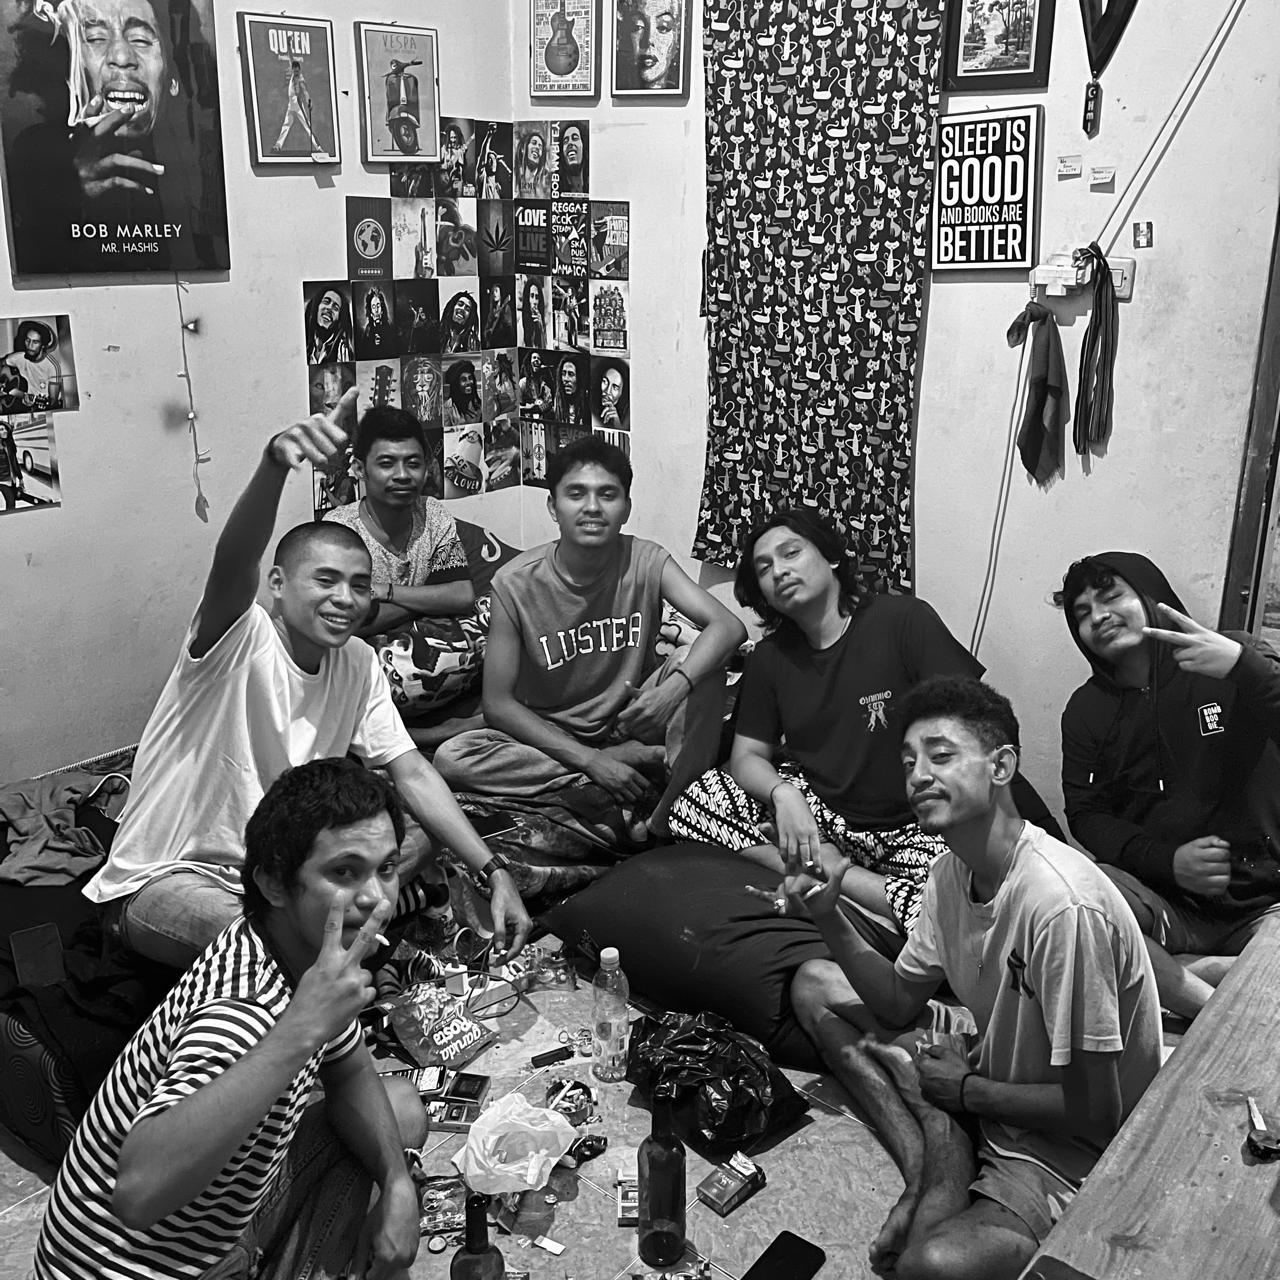
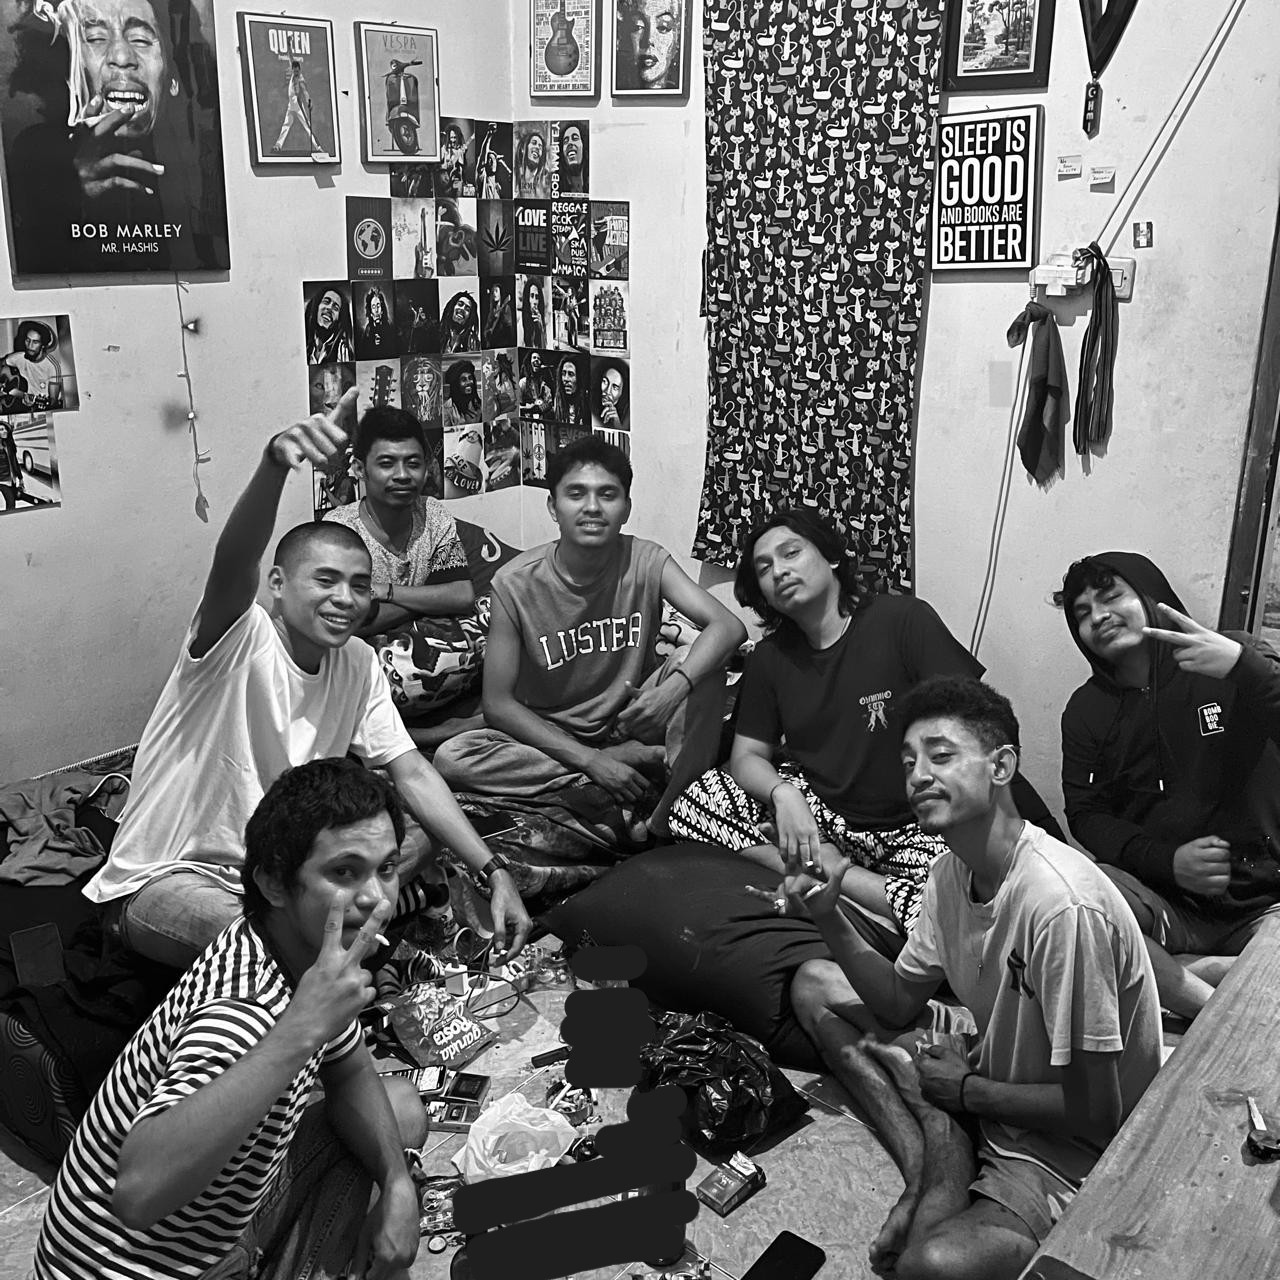
update

Changed region(s): [[0.3438, 0.7188, 0.5625, 1.0]]

diff --git a/index.html b/index.html
@@ -81,7 +81,7 @@
           <div class="portrait-stage">
             <div class="portrait-halo"></div>
             <div class="portrait-frame media-shell" data-fallback="JHALOPAX">
-              <img src="assets/style/image/Jhalopax.jpeg.jpeg" alt="Foto profil Afrizal Tuasikal">
+              <img src="assets/style/image/Jhalopax-allo.jpeg" alt="Foto profil Afrizal Tuasikal">
             </div>
             <span class="portrait-label label-top">WEB / MOBILE</span>
             <span class="portrait-label label-bottom">UI / GRAPHIC</span>
@@ -142,7 +142,7 @@
           </div>
         </div>
 
-        <blockquote class="statement reveal reveal-slice">
+        <blockquote class="statement">
           “Aku tak butuh banyak, hanya ruang untuk bernapas tenang, dan kebebasan untuk menjalani hidup dengan caraku.”
         </blockquote>
       </div>
@@ -162,7 +162,7 @@
               Saya menikmati proses mengubah masalah menjadi alur yang lebih sederhana: mulai dari merancang tampilan, membangun backend dan database, menghubungkan API, hingga melakukan deployment pada server. Proses panjang tersebut mengajarkan saya untuk teliti, adaptif, dan terus memperbaiki hasil.
             </p>
             <p class="dialect-note">
-              “Dari Ambon sampai Yogyakarta, setiap proses bukan cuma cobaan, tetapi kesempatan par katong bertumbuh dan jadi lebih baik.”
+              “Dari Ambon sampai Yogyakarta, setiap proses bukang cuma cobaan, tetapi kesempatan par katong bertumbuh deng jadi lebe bae.”
               <span>— Jhalopax</span>
             </p>
           </div>
@@ -273,8 +273,6 @@
                 </ul>
               </div>
 
-              <p class="upload-note"><i class="fa-solid fa-circle-info"></i> Unggah gambar ke folder <code>assets/style/image/</code> dengan nama <strong>SIKAPAL1.png</strong> sampai <strong>SIKAPAL10.png</strong>. Bingkai mobile akan diterapkan otomatis.</p>
-
               <div class="phone-gallery phone-gallery-sikapal" aria-label="Dokumentasi SI-KAPAL">
                 <figure class="phone-shot reveal-inner"><div class="phone-frame media-shell" data-fallback="SIKAPAL 01"><img loading="lazy" src="assets/style/image/SIKAPAL1.png" alt="Tampilan SI-KAPAL 1"></div></figure>
                 <figure class="phone-shot reveal-inner"><div class="phone-frame media-shell" data-fallback="SIKAPAL 02"><img loading="lazy" src="assets/style/image/SIKAPAL2.png" alt="Tampilan SI-KAPAL 2"></div></figure>
@@ -298,17 +296,17 @@
         <div class="section-heading section-heading-light reveal reveal-right">
           <p class="section-kicker">04 / PERSONAL ARCHIVE</p>
           <h2 class="section-title">Moment in Jogja</h2>
-          <p class="section-lead">Potongan perjalanan, tempat, dan orang-orang yang ikut memberi warna selama hidup dan belajar di Yogyakarta.</p>
+          <p class="section-lead">Potongan perjalanan, tempat, dan orang-orang yang saling berbagi pengalaman selama hidup dan belajar di Yogyakarta.</p>
         </div>
 
         <div class="gallery-grid">
           <figure class="gallery-card gallery-wide reveal reveal-left" data-delay="40">
             <div class="media-shell" data-fallback="WATUNENE"><img loading="lazy" src="assets/style/image/web-gambar1.jpeg" alt="Pantai Watunene"></div>
-            <figcaption><strong>Watunene</strong><span>Tenang, sederhana, dan dekat dengan rumah.</span></figcaption>
+            <figcaption><strong>Watunene</strong><span>Tenang, sederhana.</span></figcaption>
           </figure>
           <figure class="gallery-card reveal reveal-up" data-delay="100">
             <div class="media-shell" data-fallback="LERENG"><img loading="lazy" src="assets/style/image/web-gambar2.jpeg" alt="Lereng di Yogyakarta"></div>
-            <figcaption><strong>Lereng Jogja</strong><span>Damai di antara hijau dan ketidakpastian perjalanan.</span></figcaption>
+            <figcaption><strong>Lereng Jogja</strong><span>Damai antara hijau dan ketidakpastian perjalanan.</span></figcaption>
           </figure>
           <figure class="gallery-card reveal reveal-right" data-delay="160">
             <div class="media-shell" data-fallback="TUGU"><img loading="lazy" src="assets/style/image/web-gambar3.jpeg" alt="Tugu Yogyakarta"></div>
@@ -320,15 +318,15 @@
           </figure>
           <figure class="gallery-card reveal reveal-pop" data-delay="280">
             <div class="media-shell" data-fallback="DUO"><img loading="lazy" src="assets/style/image/Jhalopax deng Rey.jpeg" alt="Momen bersama Rey"></div>
-            <figcaption><strong>Duo</strong><span>Teman perjalanan, cerita yang tidak selalu perlu direncanakan.</span></figcaption>
+            <figcaption><strong>Duo</strong><span>Tamang bajalang, carita yang seng perlu rencana.</span></figcaption>
           </figure>
           <figure class="gallery-card gallery-wide reveal reveal-up" data-delay="340">
             <div class="media-shell" data-fallback="TRIO"><img loading="lazy" src="assets/style/image/WhatsApp Image 2024-10-18 at 17.36.45.jpeg" alt="Momen trio di Yogyakarta"></div>
-            <figcaption><strong>Trio</strong><span>Jauh dari Ambon, tetapi seng pernah benar-benar sendiri.</span></figcaption>
+            <figcaption><strong>Trio</strong><span>Jauh dari Ambon, tetap harus baku lia.</span></figcaption>
           </figure>
           <figure class="gallery-card reveal reveal-right" data-delay="400">
             <div class="media-shell" data-fallback="SQUAD"><img loading="lazy" src="assets/style/image/21sq.jpg" alt="Momen bersama squad"></div>
-            <figcaption><strong>Squad</strong><span>Baku kele, baku bantu, dan tumbuh bersama.</span></figcaption>
+            <figcaption><strong>Squad</strong><span>Baku kele, baku bantu, deng tumbuh sama-sama.</span></figcaption>
           </figure>
           <figure class="gallery-card gallery-card-ramerame">
             <div class="media-shell" data-fallback="RAMERAME">
@@ -340,7 +338,7 @@
                 alt="Momen ramai-ramai"
               >
             </div>
-            <figcaption><strong>Rame-rame</strong><span>Momen kecil yang nanti terasa paling besar.</span></figcaption>
+            <figcaption><strong>Rame-rame</strong><span>Momen kecil yang barasa paleng besar.</span></figcaption>
           </figure>
         </div>
       </div>
@@ -355,7 +353,6 @@
         </div>
         <div class="contact-actions reveal reveal-right" data-delay="140">
           <a href="mailto:tuasikal230104@gmail.com"><i class="fa-regular fa-envelope"></i><span>Email</span><strong>tuasikal230104@gmail.com</strong></a>
-          <a href="tel:+6282230900302"><i class="fa-solid fa-phone"></i><span>Telepon</span><strong>+62 822-3090-0302</strong></a>
           <a href="https://wa.me/6282230900302" target="_blank" rel="noopener noreferrer"><i class="fa-brands fa-whatsapp"></i><span>WhatsApp</span><strong>Chat langsung</strong></a>
           <a href="https://www.instagram.com/rzhlotuasikal_" target="_blank" rel="noopener noreferrer"><i class="fa-brands fa-instagram"></i><span>Instagram</span><strong>@rzhlotuasikal_</strong></a>
         </div>
@@ -371,7 +368,6 @@
         <p>Web & Mobile Developer · UI Designer · Graphic Designer</p>
       </div>
       <div class="footer-links" aria-label="Kontak footer">
-        <a href="tel:+6282230900302"><i class="fa-solid fa-phone"></i> +62 822-3090-0302</a>
         <a href="mailto:tuasikal230104@gmail.com"><i class="fa-regular fa-envelope"></i> tuasikal230104@gmail.com</a>
         <a href="https://wa.me/6282230900302" target="_blank" rel="noopener noreferrer"><i class="fa-brands fa-whatsapp"></i> WhatsApp</a>
         <a href="https://www.instagram.com/rzhlotuasikal_" target="_blank" rel="noopener noreferrer"><i class="fa-brands fa-instagram"></i> @rzhlotuasikal_</a>

diff --git a/script.js b/script.js
@@ -58,6 +58,35 @@ document.addEventListener("DOMContentLoaded", () => {
 
   revealItems.forEach((item) => revealObserver.observe(item));
 
+  // Pernyataan Biodata memakai observer khusus dan fallback agar tidak
+  // pernah tetap transparan saat berada di bagian bawah section.
+  const biodataStatement = document.querySelector("#biodata .statement-live");
+  if (biodataStatement) {
+    const showBiodataStatement = () => {
+      biodataStatement.classList.add("is-visible");
+    };
+
+    if ("IntersectionObserver" in window) {
+      const statementObserver = new IntersectionObserver((entries, observer) => {
+        entries.forEach((entry) => {
+          if (!entry.isIntersecting) return;
+          showBiodataStatement();
+          observer.unobserve(entry.target);
+        });
+      }, {
+        threshold: 0.02,
+        rootMargin: "0px 0px 18% 0px",
+      });
+
+      statementObserver.observe(biodataStatement);
+    } else {
+      showBiodataStatement();
+    }
+
+    // Fallback terakhir: elemen tetap tampil walaupun observer browser gagal.
+    window.setTimeout(showBiodataStatement, 2200);
+  }
+
   const updateOnScroll = () => {
     const y = window.scrollY;
     navbar?.classList.toggle("scrolled", y > 28);

diff --git a/assets/style/style.css b/assets/style/style.css
@@ -609,7 +609,11 @@ a {
 
 /* Biodata */
 #biodata .section-inner {
-  padding-bottom: clamp(52px, 5.5vw, 82px);
+  padding-bottom: clamp(20px, 2vw, 32px);
+}
+
+#about .section-inner {
+  padding-top: clamp(48px, 4.5vw, 70px);
 }
 
 .bio-layout {
@@ -785,13 +789,24 @@ a {
 
 .statement {
   max-width: 980px;
-  margin: clamp(52px, 8vw, 100px) auto 0;
+  margin: clamp(24px, 3vw, 42px) auto 0;
   padding: 28px clamp(24px, 5vw, 60px);
   border-left: 6px solid var(--ink);
   font-family: var(--font-script);
   font-size: clamp(1.8rem, 4vw, 3.5rem);
   line-height: 1.18;
   text-align: center;
+}
+
+.statement-live {
+  opacity: 0;
+  transform: translateY(34px) scale(.985);
+  transition: opacity 1.05s ease, transform 1.05s cubic-bezier(.17,.8,.2,1);
+}
+
+.statement-live.is-visible {
+  opacity: 1;
+  transform: none;
 }
 
 /* About */
@@ -1678,7 +1693,11 @@ a {
   }
 
   #biodata .section-inner {
-    padding-bottom: 48px;
+    padding-bottom: 18px;
+  }
+
+  #about .section-inner {
+    padding-top: 42px;
   }
 
   #project .section-title,
@@ -1829,7 +1848,7 @@ a {
   }
 
   .statement {
-    margin-top: 50px;
+    margin-top: 28px;
     padding: 22px 15px;
     border-left-width: 4px;
     font-size: 1.7rem;
